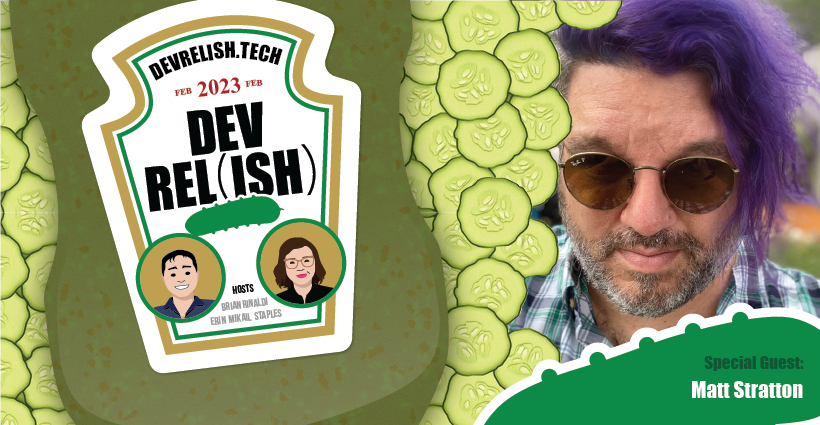
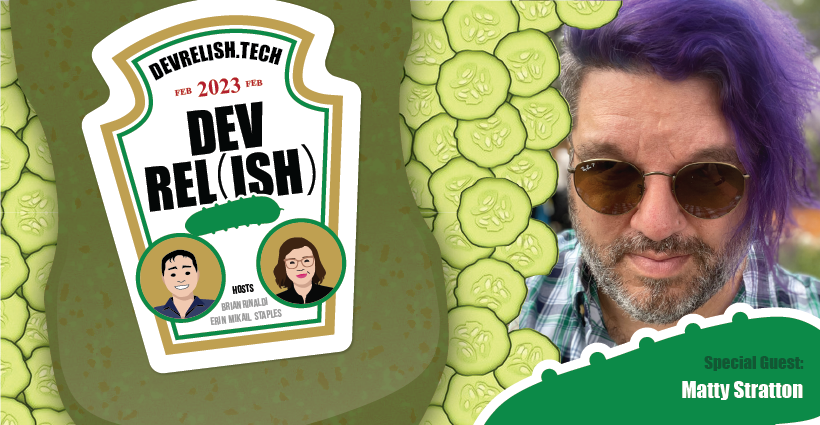
fixes

Changed region(s): [[0.6098, 0.0, 1.0, 0.8565], [0.8232, 0.8871, 0.8841, 0.9482]]

diff --git a/content/speakers/matt-stratton.md b/content/speakers/matt-stratton.md
@@ -1,5 +1,5 @@
 ---
-title: Matt Stratton
+title: Matty Stratton
 date: 2019-07-24T18:52:51-04:00
 speaker_image: MattStratton.jpg
 job_title:  Director of Developer Relations at Aiven
